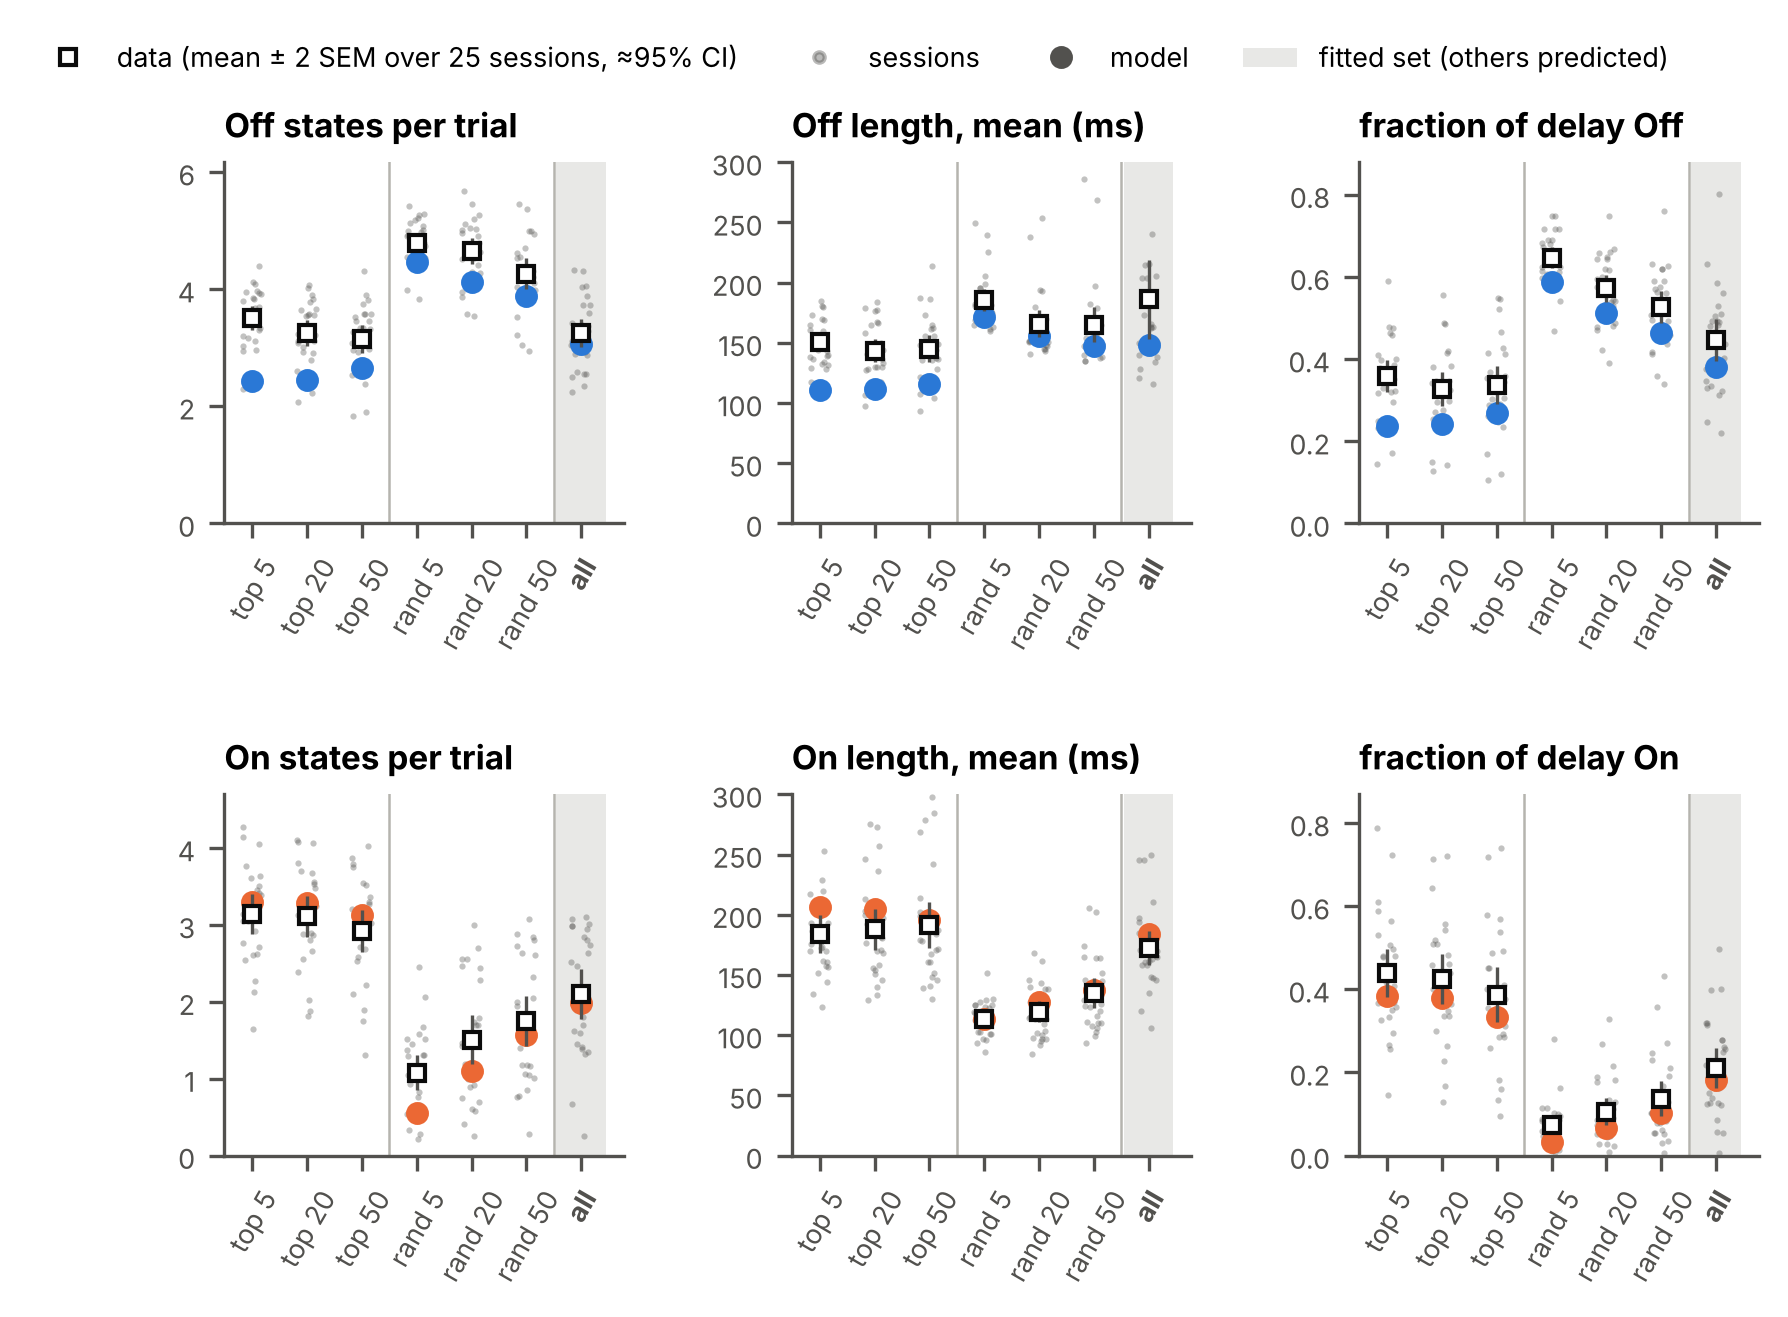
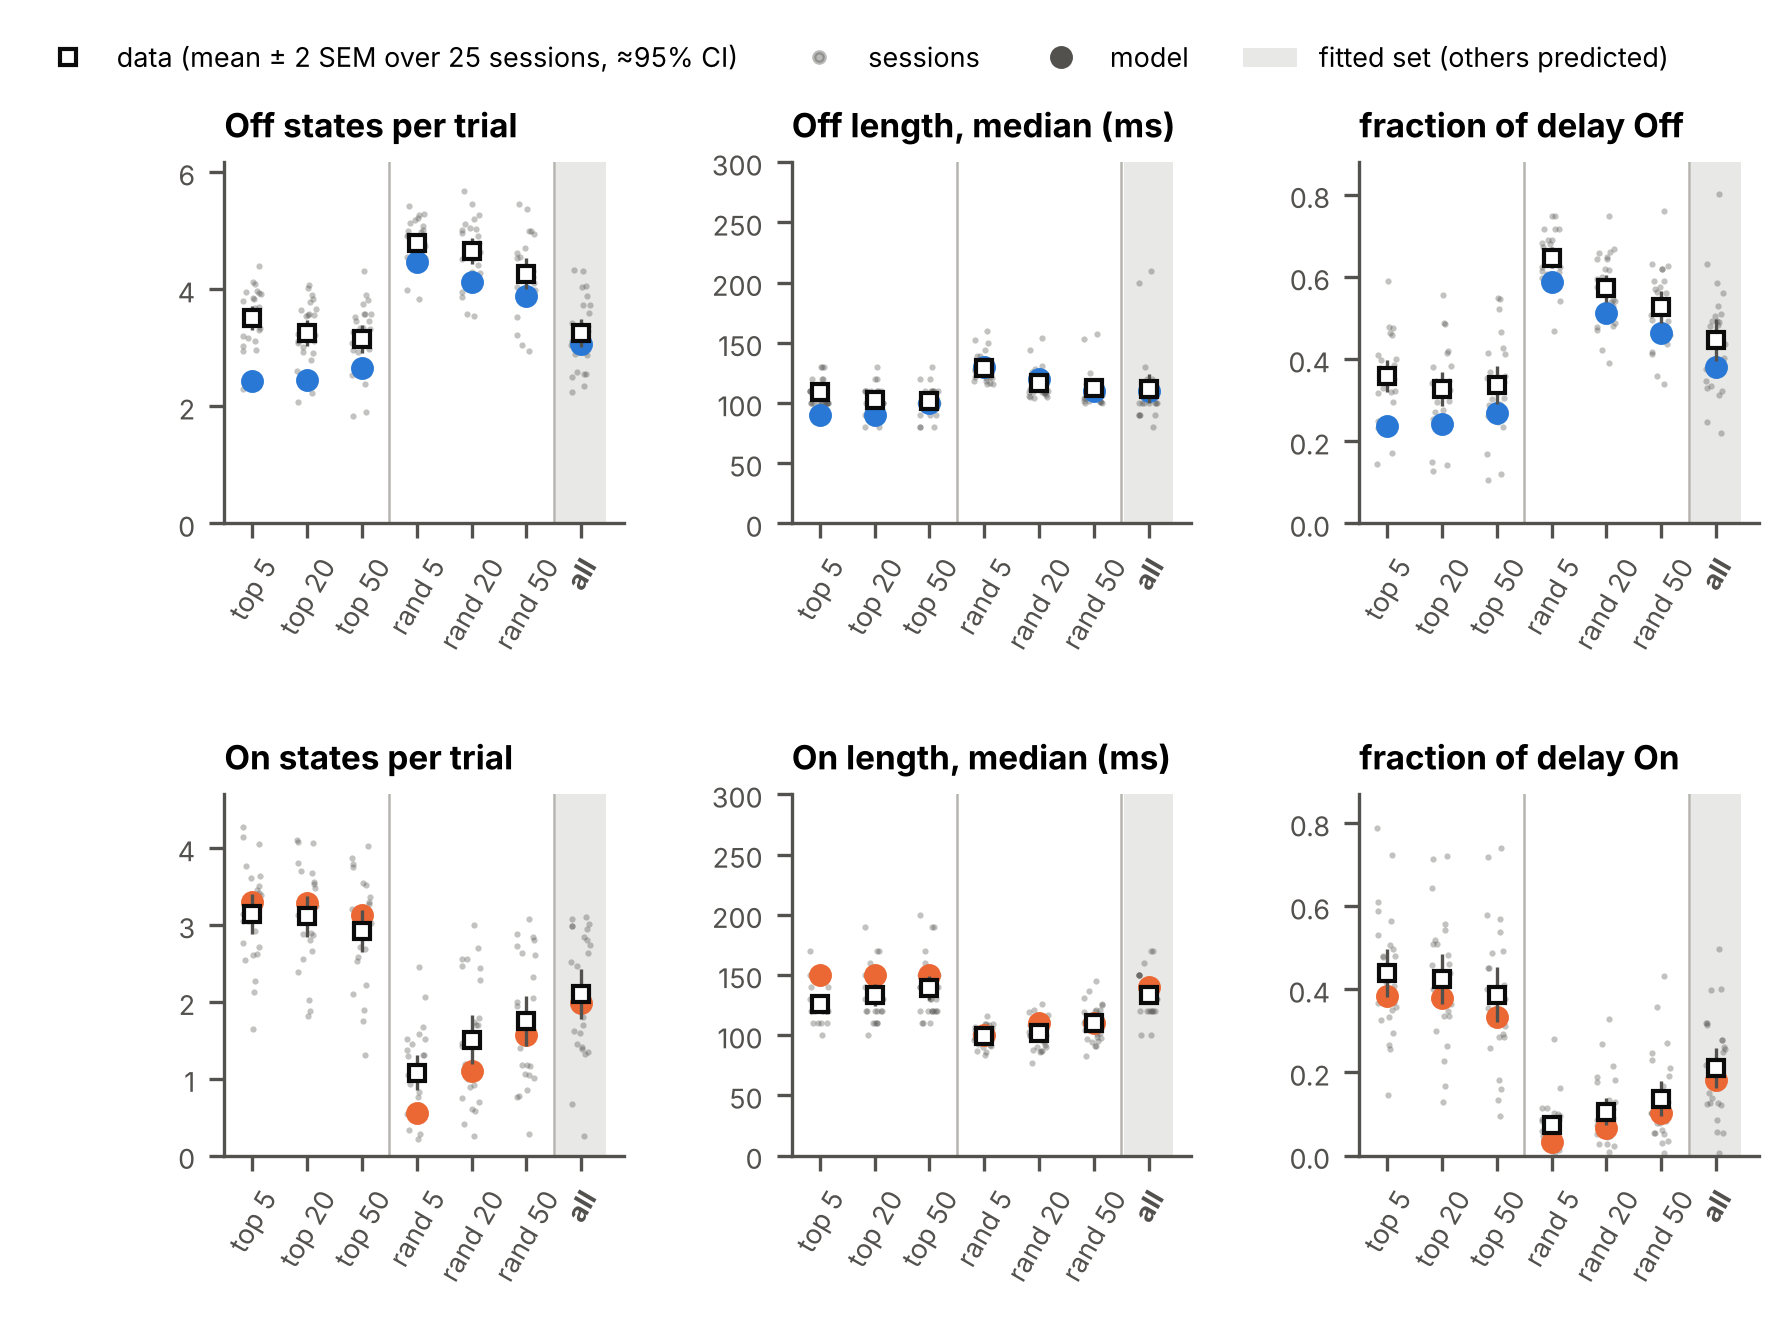
Figure 2: Off and On lengths as medians
Claude-Session: https://claude.ai/code/session_01DWA8oLxpZgubPZ4A6kb3Lh

diff --git a/paper_model/make_figures.py b/paper_model/make_figures.py
@@ -142,9 +142,9 @@ def figure1(out, path):
 def figure2(out, summ, path):
     ses = R.load_sessions()
     x = np.arange(len(R.SETS))
-    panels = (('off_per_trial', 'n_off', 'Off states per trial', C_OFF), ('off_mean_ms', 'off_mean', 'Off length, mean (ms)', C_OFF),
+    panels = (('off_per_trial', 'n_off', 'Off states per trial', C_OFF), ('off_median_ms', 'off_median', 'Off length, median (ms)', C_OFF),
               ('frac_off', 'frac_off', 'fraction of delay Off', C_OFF),
-              ('on_per_trial', 'n_on', 'On states per trial', C_ON), ('on_mean_ms', 'on_mean', 'On length, mean (ms)', C_ON),
+              ('on_per_trial', 'n_on', 'On states per trial', C_ON), ('on_median_ms', 'on_median', 'On length, median (ms)', C_ON),
               ('frac_on', 'frac_on', 'fraction of delay On', C_ON))
     fig, axs = plt.subplots(2, 3, figsize=(6.6, 4.3), gridspec_kw=dict(hspace=0.75, wspace=0.42))
     for a, (dk, mk, name, col) in zip(axs.ravel(), panels):
@@ -170,7 +170,7 @@ def figure2(out, summ, path):
         j = R.SETS.index(M.FIT_SET)
         a.axvspan(j - 0.45, j + 0.45, color=MUTED, alpha=0.3, lw=0, zorder=0)    # the set the dynamics were fitted to
         a.get_xticklabels()[j].set_fontweight('bold')
-        a.set_ylim(0, 300 if mk in ('off_mean', 'on_mean') else a.get_ylim()[1] * 1.05)   # lengths: same axis, a few sessions clipped
+        a.set_ylim(0, 300 if mk in ('off_median', 'on_median') else a.get_ylim()[1] * 1.05)   # lengths: same axis
         a.tick_params(labelsize=6.5)
     fig.legend(handles=[Line2D([], [], ls='', marker='s', ms=4, mfc='white', mec=INK, label='data (mean ± 2 SEM over 25 sessions, ≈95% CI)'),
                         Line2D([], [], ls='', marker='.', ms=5, color=INK2, alpha=0.4, label='sessions'),

diff --git a/paper_model/readout.py b/paper_model/readout.py
@@ -183,6 +183,7 @@ def evaluate(theta=None, n_trials=1056, seed=0, summ=None, keep=False, sets=SETS
                  accuracy=float((z[:, delay] > 0).mean()),
                  n_off=float(np.mean([len(x) for x in off])), n_on=float(np.mean([len(x) for x in on])),
                  off_mean=float(off_d.mean()) if len(off_d) else 0.0, on_mean=float(on_d.mean()) if len(on_d) else 0.0,
+                 off_median=float(np.median(off_d)) if len(off_d) else 0.0, on_median=float(np.median(on_d)) if len(on_d) else 0.0,
                  frac_off=float((state[:, delay] == -1).mean()), frac_on=float((state[:, delay] == 1).mean()),
                  h_off=hist(off_d), h_on=hist(on_d))
         if keep:
